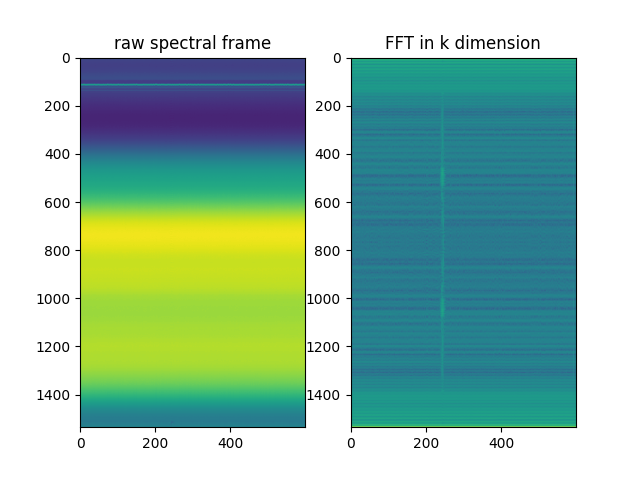
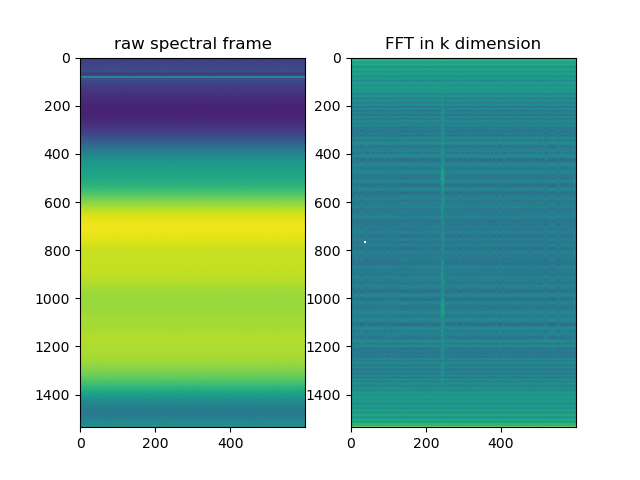
added fbg_alignment modified algorithm example

diff --git a/examples/fbg_alignment/process.py b/examples/fbg_alignment/process.py
@@ -11,15 +11,9 @@ from octoblob import mapping_dispersion_optimizer as mdo
 from octoblob import file_manager
 import pathlib
 
-# This example illustrates how to process a dataset that has artifacts such as lens reflexes and/or laser noise.
-# The two key steps are 1) avoiding automatic cropping, which depends on the center of mass of the structure in
-# the image (i.e., the location of the retina) to determine reasonable cropping points in depth (z); 2) forcing
-# some horizontal cropping to remove the bright artifacts from the image; this latter step is critical for automatic
-# optimization of dispersion/mapping coefficients.
 
-# If we want automatic cropping (useful in most contexts) we use the function blobf.spectra_to_bscan, but in this case
-# the artifact dominates the B-scan's center of mass and we have to use the full depth of the B-scan for optimization,
-# thus we only use blobf.spectra_to_bscan_nocrop
+# This example provides a new FBG alignment function based on cross-correlation. It may prove to be more robust than
+# previous methods that used 'feature'-based alignment (e.g. aligning to the largest positive or negative gradients)
 
 no_parallel = True
 
@@ -55,9 +49,9 @@ diagnostics = diagnostics_tools.Diagnostics(data_filename)
 params_filename = file_manager.get_params_filename(data_filename)
 params = parameters.Parameters(params_filename,verbose=True)
 
-# Get a plain frame for viewing
+# Get a plain frame for viewing the FBG alignment errors
 src = blobf.get_source(data_filename)
-f = src.get_frame(10)
+f = src.get_frame(0)
 plt.figure()
 plt.subplot(1,2,1)
 plt.imshow(f,aspect='auto')
@@ -68,77 +62,107 @@ plt.title('FFT in k dimension')
 os.makedirs('./figs',exist_ok=True)
 plt.savefig('figs/artifact_example.png')
 
-# Set a limit on the maximum index where the FBG trough could possibly be located:
-fbg_max_index = 150
+#f = src.get_frame(50)
 
-# Set the edge of the high-frequency fringe region at the start of the spectra:
-fbg_noisy_region = 70
+# New prototype fbg_align function, which uses cross-correlation instead of feature-
+# based alignment of spectra.
+# Set a limit on the maximum index where the FBG trough could possibly be located.
+# This is a critical parameter, as it avoids cross correlation of spectra based on
+# structural information; this would prevent the FBG features from dominating the
+# cross-correlation and introduce additional phase noise.
 
-# Get an octoblob.DataSource object using the filename
-src = blobf.get_source(data_filename,x1=0,x2=200)
+def fbg_align(spectra,fbg_max_index=150,diagnostics=None):
+    # crop the frame to the FBG region
+    f = spectra[:fbg_max_index,:].copy()
 
-f = src.get_frame(15)
+    if not diagnostics is None:
+        fig = diagnostics.figure()
+        axes = fig.subplots(2,2)
+        axes[0][0].imshow(f,aspect='auto')
+        for k in range(f.shape[1]):
+            axes[0][1].plot(f[:,k])
 
-# fill the fringe artifact with its mean value:
-f[:fbg_noisy_region,:] = np.mean(f[:fbg_noisy_region,:])
-# crop the frame to the FBG region
-f = f[:fbg_max_index,:]
+    # group the spectra by amount of shift:
+    # make a list of spectra to group and those not to group
+    to_do = list(range(f.shape[1]))
+    done = []
+    corrs = []
+    groups = []
+    ref = 0
+    while(True):
+        groups.append([ref])
+        #print(groups)
+        to_do.remove(ref)
+        for tar in to_do:
+            c = np.corrcoef(f[:,ref],f[:,tar])[0,1]
+            if c>.90:
+                groups[-1].append(tar)
+                to_do.remove(tar)
+        if len(to_do)==0:
+            break
+        ref = to_do[0]
 
-plt.figure()
-plt.subplot(2,2,1)
-plt.imshow(f,aspect='auto')
-plt.subplot(2,2,2)
-for k in range(f.shape[1]):
-    plt.plot(f[:,k])
+    subframes = []
+    for g in groups:
+        subf = f[:,g]
+        subframes.append(subf)
 
-# group the spectra by amount of shift:
-# make a list of spectra to group and those not to group
-to_do = list(range(f.shape[1]))
-done = []
-corrs = []
-groups = []
-ref = 0
-while(True):
-    groups.append([ref])
-    print(groups)
-    to_do.remove(ref)
-    for tar in to_do:
-        c = np.corrcoef(f[:,ref],f[:,tar])[0,1]
-        if c>.90:
-            groups[-1].append(tar)
-            to_do.remove(tar)
-    if len(to_do)==0:
-        break
-    ref = to_do[0]
+    group_shifts = [0]
+    ref = np.mean(subframes[0],axis=1)
+    for taridx in range(1,len(subframes)):
+        tar = np.mean(subframes[taridx],axis=1)
+        xc = np.fft.ifft(np.fft.fft(ref)*np.fft.fft(tar).conj())
+        shift = np.argmax(xc)
+        if shift>len(xc)//2:
+            shift = shift-len(xc)
+        group_shifts.append(shift)
 
-subframes = []
-for g in groups:
-    subf = f[:,g]
-    subframes.append(subf)
+    for g,s in zip(groups,group_shifts):
+        for idx in g:
+            spectra[:,idx] = np.roll(spectra[:,idx],s)
+            f[:,idx] = np.roll(f[:,idx],s)
 
-group_shifts = [0]
-ref = np.mean(subframes[0],axis=1)
-for taridx in range(1,len(subframes)):
-    tar = np.mean(subframes[taridx],axis=1)
-    xc = np.fft.ifft(np.fft.fft(ref)*np.fft.fft(tar).conj())
-    shift = np.argmax(xc)
-    if shift>len(xc)//2:
-        shift = shift-len(xc)
-    group_shifts.append(shift)
+    if not diagnostics is None:
+        axes[1][0].imshow(f,aspect='auto')
+        for k in range(f.shape[1]):
+            axes[1][1].plot(f[:,k])
+        diagnostics.save(fig)
 
-for g,s in zip(groups,group_shifts):
-    for idx in g:
-        f[:,idx] = np.roll(f[:,idx],s)
+    return spectra
+
+
+def spectra_to_bscan(mdcoefs,spectra,diagnostics=None):
+    # only the fbg_align function is called locally (from this script);
+    # most of the OCT processing is done by blob functions (blobf.XXXX)
+    spectra = fbg_align(spectra,diagnostics=diagnostics)
+    spectra = blobf.dc_subtract(spectra,diagnostics=diagnostics)
+    spectra = blobf.crop_spectra(spectra,diagnostics=diagnostics)
+    spectra = blobf.k_resample(spectra,mdcoefs[:2],diagnostics=diagnostics)
+    spectra = blobf.dispersion_compensate(spectra,mdcoefs[2:],diagnostics=None)
+    spectra = blobf.gaussian_window(spectra,sigma=0.9,diagnostics=None)
+
+    # Now generate the bscan by FFT:
+    bscan = np.fft.fft(spectra,axis=0)
+    # remove the upper half of the B-scan and leave only the bottom half:
+    bscan = bscan[bscan.shape[0]//2:,:]
+
+    # could additionally crop the B-scan if desired;
+    # for example, could remove the top 10 rows, bottom 50 rows, and 10 columns
+    # from the left and right edges:
+    # bscan = bscan[10:-50,10:-10]
+
+    # artifact.png has a lens flare artifact after the 150th column, so we'll remove
+    # it; we'll also remove 50 rows near the DC (bottom of the image):
+    bscan = bscan[:-50,:150]
     
-plt.subplot(2,2,3)
-plt.imshow(f,aspect='auto')
-plt.subplot(2,2,4)
-for k in range(f.shape[1]):
-    plt.plot(f[:,k])
+    if not diagnostics is None:
+        fig = diagnostics.figure()
+        axes = fig.subplots(1,1)
+        im = axes.imshow(20*np.log10(np.abs(bscan)),aspect='auto')
+        plt.colorbar(im)
+        diagnostics.save(fig)
+    return bscan
 
-plt.show()
-
-sys.exit()
 
 # try to read dispersion/mapping coefs from a local processing_parameters file, and run optimization otherwise
 try:
@@ -146,8 +170,9 @@ try:
     logging.info('File %s mapping dispersion coefficients found in %s. Skipping optimization.'%(data_filename,params_filename))
 except KeyError:
     logging.info('File %s mapping dispersion coefficients not found in %s. Running optimization.'%(data_filename,params_filename))
-    samples = src.get_samples(5)
-    coefs = mdo.multi_optimize(samples,blobf.spectra_to_bscan,show_all=False,show_final=True,verbose=False,diagnostics=diagnostics)
+    samples = src.get_samples(3)
+    # modify the next line to use the local spectra_to_bscan function by removing 'blobf.':
+    coefs = mdo.multi_optimize(samples,spectra_to_bscan,show_all=False,show_final=True,verbose=False,diagnostics=diagnostics)
     params['mapping_dispersion_coefficients'] = coefs
 
 # get the folder name for storing bscans
@@ -157,8 +182,9 @@ if __name__=='__main__':
 
     if use_multiprocessing:
         def proc(k):
-            # compute the B-scan from the spectra, using the provided dispersion coefficients:
-            bscan = blobf.spectra_to_bscan(coefs,src.get_frame(k),diagnostics=diagnostics)
+            # compute the B-scan from the spectra, using the provided dispersion coefficients;
+            # use the local spectra_to_bscan function, not the blobf. version
+            bscan = spectra_to_bscan(coefs,src.get_frame(k),diagnostics=diagnostics)
 
             # save the complex B-scan in the B-scan folder
             outfn = os.path.join(bscan_folder,file_manager.bscan_template%k)
@@ -173,7 +199,8 @@ if __name__=='__main__':
         for k in range(src.n_total_frames):
 
             # compute the B-scan from the spectra, using the provided dispersion coefficients:
-            bscan = blobf.spectra_to_bscan_nocrop(coefs,src.get_frame(k),diagnostics=diagnostics)
+            # use the local spectra_to_bscan function, not the blobf. version
+            bscan = spectra_to_bscan(coefs,src.get_frame(k),diagnostics=diagnostics)
 
             # save the complex B-scan in the B-scan folder
             outfn = os.path.join(bscan_folder,file_manager.bscan_template%k)

diff --git a/diagnostics_tools.py b/diagnostics_tools.py
@@ -17,7 +17,7 @@ class Diagnostics:
         self.labels = {}
         self.counts = {}
         self.done = []
-        self.fig = plt.figure()
+        #self.fig = plt.figure()
 
     def log(self,title,header,data,fmt,clobber):
         print(title)
@@ -34,6 +34,8 @@ class Diagnostics:
         
         if index<self.limit or ignore_limit:
             outfn = os.path.join(subfolder,'%s_%05d.png'%(label,index))
+            plt.figure(label)
+            plt.suptitle(label)
             plt.savefig(outfn,dpi=self.dpi)
             logging.info('Saving %s.'%outfn)
             self.counts[label]+=1
@@ -48,8 +50,9 @@ class Diagnostics:
         if not label in self.counts.keys():
             self.counts[label] = 0
             os.makedirs(subfolder,exist_ok=True)
-        self.fig.clear()
-        self.fig.set_size_inches(figsize[0],figsize[1], forward=True)
+        fig = plt.figure(label)
+        fig.clear()
+        fig.set_size_inches(figsize[0],figsize[1], forward=True)
         #out = plt.figure(figsize=figsize,dpi=dpi)
-        return self.fig
+        return fig
     

diff --git a/examples/fbg_alignment/README.md b/examples/fbg_alignment/README.md
@@ -2,15 +2,11 @@
 
 Spectra from the Axsun 100 kHz laser in the protoclinical ORG system are not well-aligned because of a k-clock problem. Therefore we have a fiber Bragg grating (FBG) at the laser output, which generates a notch at a specific value of k. In practice, due to polarization-sensitivity of the FBG and ambiguity introduced by balanced detection, the FBG notch manifests as a series of either notches or peaks--essentially a high-frequency fringe. When the Axsun was used for OCTA applications, a simple algorithm was used to align spectra--the most negative gradient (e.g., the falling edge of the trough) was identified and all spectra were aligned to it. Recently, this algorithm has not worked well, and additional control of FBG alignment is required in top-level scripts. Default behavior identifies the largest positive gradient, because this proved more generally effective than the most negative gradient. This example illustrates how to depart from default behavior.
 
-The first step in locating and aligning to the FBG features is removal of some high-frequency fringe near the start of the scans. This fringe is tricky because it gets close to the FBG feature but can't be removed by lateral averaging because the fringe is constant w/r/t scan angle and structural variation.
+The new FBG alignment function provided in the `process.py` uses cross-correlation instead of feature identification to align spectra. Broadly, this should be more resistant to variation in the FBG appearance among experiments, since it doesn't require the FBG features to be consistent.
 
-Standard B-scan processing uses an automated algorithm for cropping the retina out of B-scans. This algorithm computes the axial centroid of the B-scan *intensity*, and selects 160 pixels on either side of that center of mass as the relevant portion of the B-scan. This works fine for retinal B-scans, but for other kinds of data, especially if they contain artifacts such as lens or mirror reflexes, automatic cropping will center the image about those artifacts instead of the features of interest. This script employs a B-scan generating function that does not automatically crop B-scans. The function is called `spectra_to_bscan_nocrop`. Instead of cropping around the center of mass of the image, it just crops out half of the B-scan--that is, one of the complex conjugate pairs.  
+Unlike most processing scripts, this `process.py` script does not call `octoblob.functions.spectra_to_bscan()` but instead defines its own `spectra_to_bscan` in order to utilize the custom FBG alignment function. Exposing the guts of the `spectra_to_bscan` function in the script offers some additional advantages: it permits users to observe the logic of the function and to specify parameters for other steps in processing such as cropping and windowing.
 
-In addition, this example illustrates how to use the `x1` and `x2` parameters of the `DataSource` constructor and the `get_source` convenience function. When a dataset has significant artifacts not generated by the OCT sample (i.e. generated by lens reflections or stray light), and if these artifacts are similar in amplitude to the sample image, automated optimization of mapping and dispersion parameters will fail. They will result in parameters that maximize the brightness/sharpness of the artifact instead of the sample. Thus it is convenient to crop the B-scans laterally, and this can be done by passing parameters `x1` and `x2` to `get_source`, thus specifying the starting end ending columns of the B-scan to be used for optimization.
-
-This version of `process.py` creates a single rough figure (seen below) in `figs/artifact_example.png` that allows the user to set values of `x1` and `x2` correctly. The user must know that the feature to be seen (in this case a mirror behind 40 dB of attenuation) is located toward the left side of the image, and observe that the artifact begins after the 200th column of the B-scan. This will allow the user to choose values of 0 and 200 for `x1` and `x2` respectively.
-
-![Rough spectra and B-scan visualizations to help set lateral cropping parameters x1 and x2.](./figs/artifact_example.png)
+![Example diagnostic image for cross-correlation-based FBG alignment.](./figs/fbg_example.png)
 
 ## Folder contents
 
